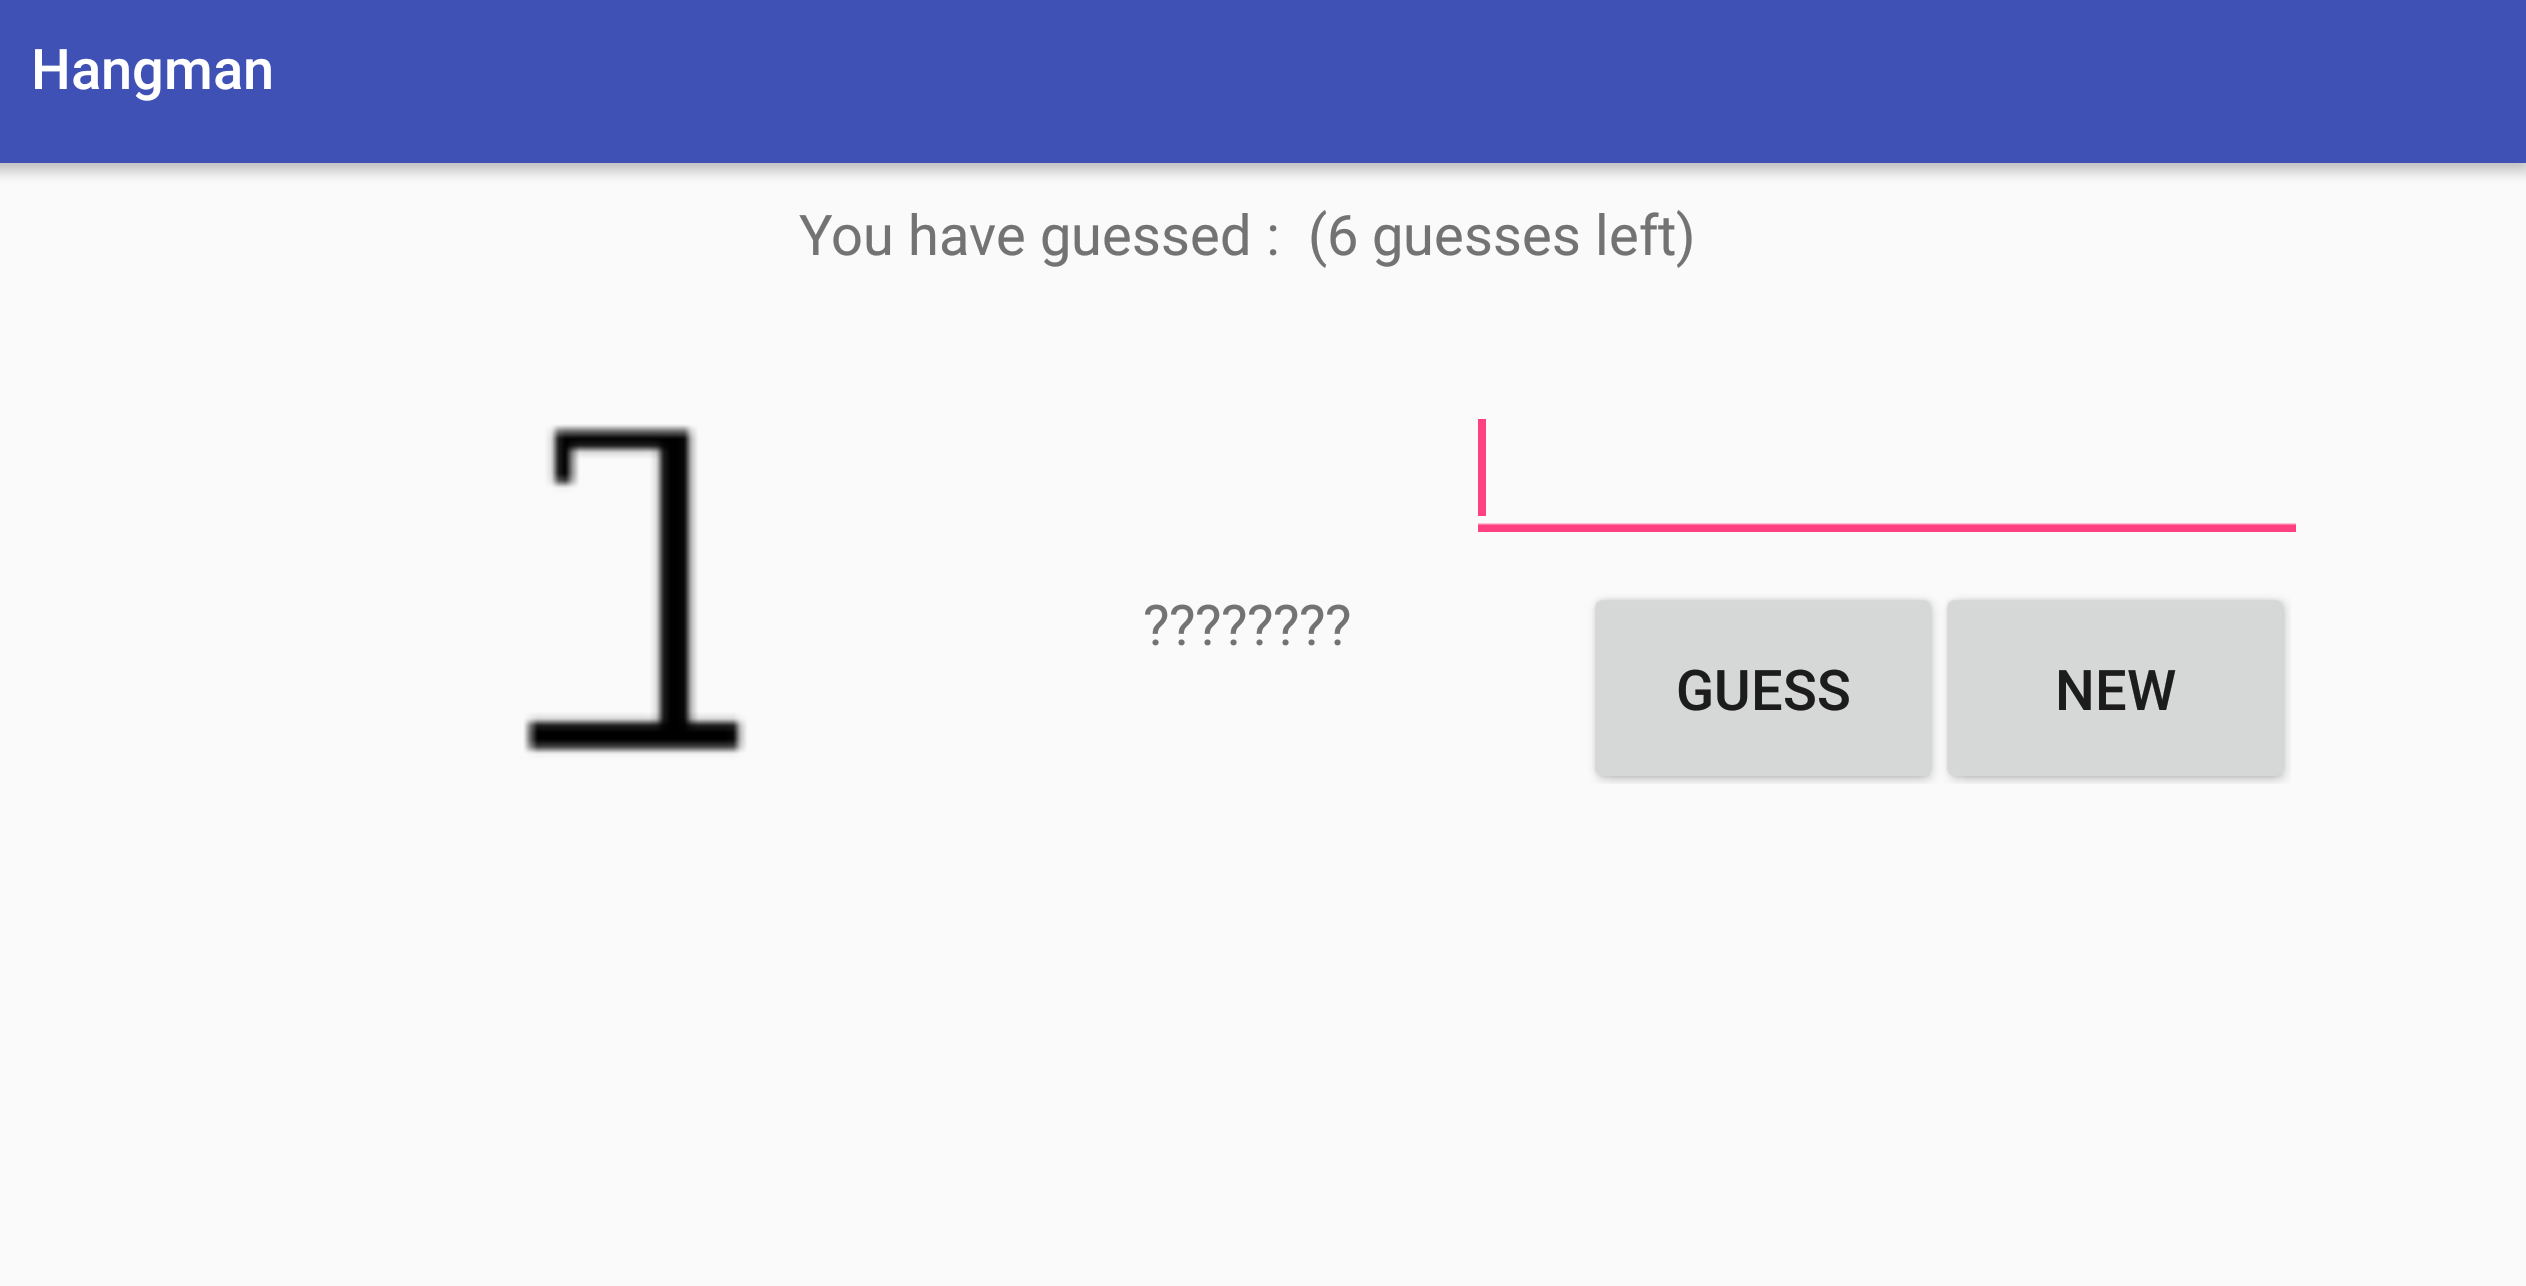
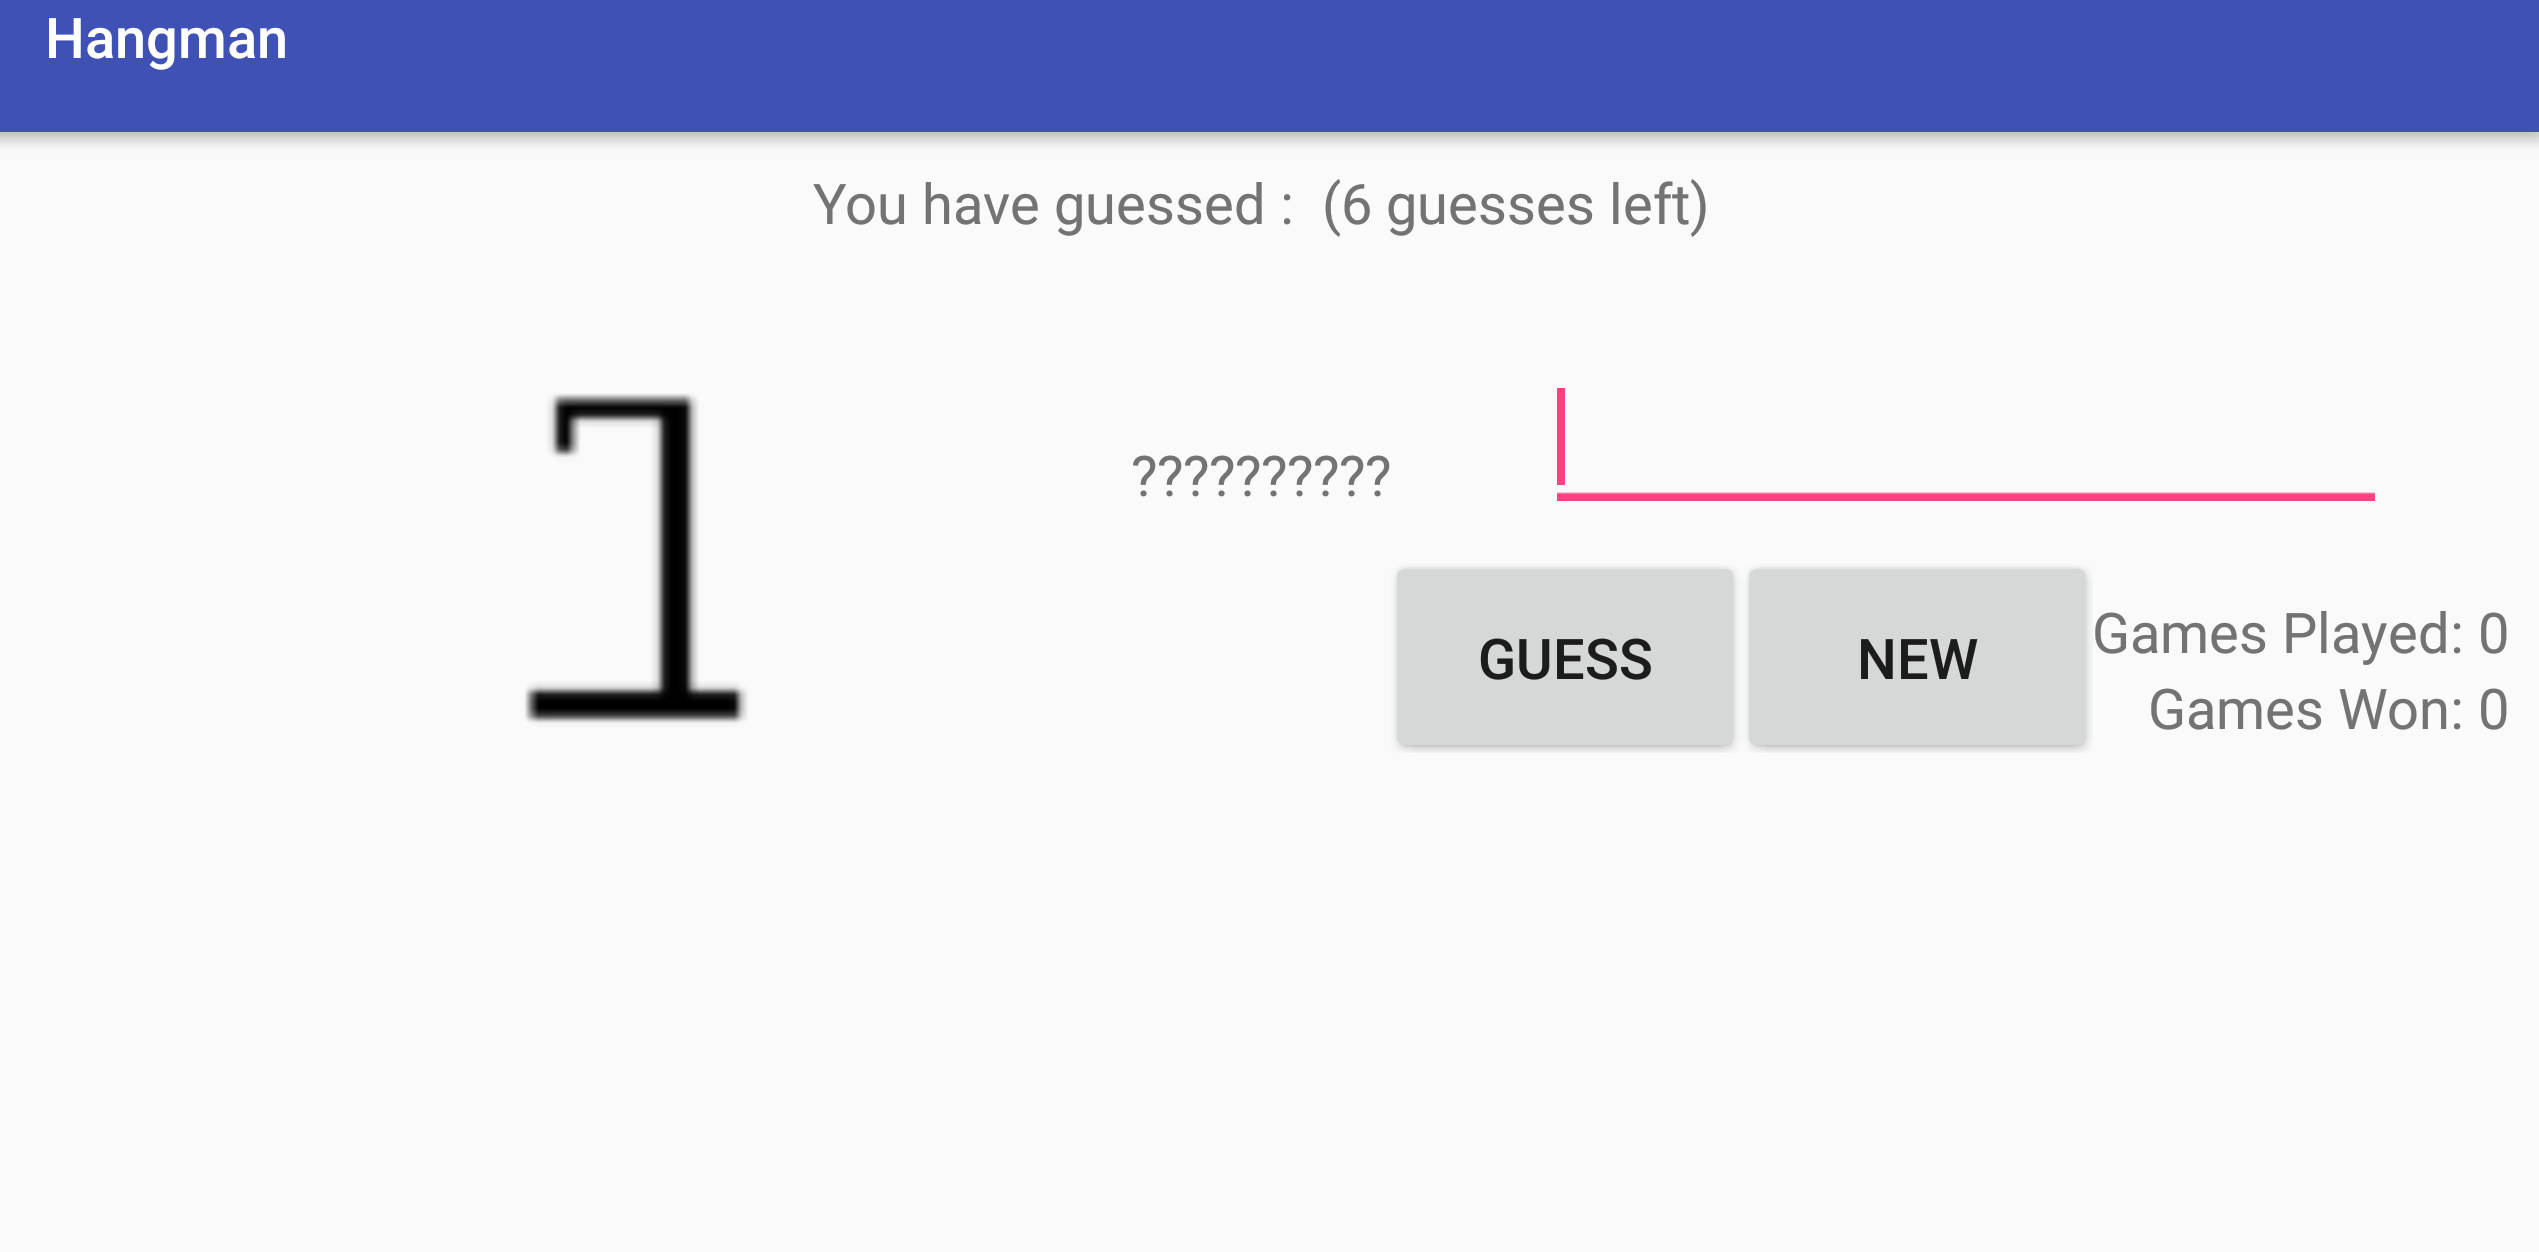
updated pictures

diff --git a/app/src/main/java/com/example/dante/hangman/MainActivity.java b/app/src/main/java/com/example/dante/hangman/MainActivity.java
@@ -4,7 +4,6 @@ import android.content.Context;
 import android.support.v7.app.AppCompatActivity;
 import android.os.Bundle;
 import android.view.View;
-import android.view.inputmethod.InputMethod;
 import android.view.inputmethod.InputMethodManager;
 import android.widget.Button;
 import android.widget.EditText;
@@ -119,9 +118,15 @@ public class MainActivity extends AppCompatActivity {
         EditText guess_input = findViewById(R.id.guess_input);
         guess_input.setText("");
         guess_input.requestFocus();
-        InputMethodManager imm = (InputMethodManager)getSystemService(INPUT_METHOD_SERVICE);
-        imm.toggleSoftInput(InputMethodManager.SHOW_FORCED,InputMethodManager.HIDE_IMPLICIT_ONLY);
+        InputMethodManager imm = (InputMethodManager)getSystemService(Context.INPUT_METHOD_SERVICE);
+        imm.toggleSoftInput(InputMethodManager.SHOW_FORCED,1);
 
+        TextView games_info = findViewById(R.id.games_info);
+        TextView won_info = findViewById(R.id.won_info);
+        String games_played = "Games Played: " + game.get_games_played();
+        games_info.setText(games_played);
+        String games_won = "Games Won: " + game.get_games_won();
+        won_info.setText(games_won);
     }
 
     public void onSaveInstanceState(Bundle outState) {

diff --git a/app/src/main/java/com/example/dante/hangman/Hangman.java b/app/src/main/java/com/example/dante/hangman/Hangman.java
@@ -7,9 +7,13 @@ public class Hangman implements Serializable{
     private int ArrayIndex;
     private String secret_word;
     private int letters_to_guess;
+    private int games_played;
+    private int games_won;
 
     public Hangman(Dictionary dict) {
         // start a game
+        games_played = 0;
+        games_won = 0;
         new_game(dict);
     }
 
@@ -60,9 +64,12 @@ public class Hangman implements Serializable{
 
     public String isFinished() {
         if (guesses_left == 0) {
+            games_played++;
             return "You have lost, the secret word was \"" + secret_word + "\"";
         }
         if (letters_to_guess == 0) {
+            games_played++;
+            games_won++;
             return "You have won";
         }
         return "no";
@@ -100,4 +107,11 @@ public class Hangman implements Serializable{
         return false;
     }
 
+    public String get_games_played() {
+        return String.valueOf(games_played);
+    }
+
+    public String get_games_won() {
+        return String.valueOf(games_won);
+    }
 }
